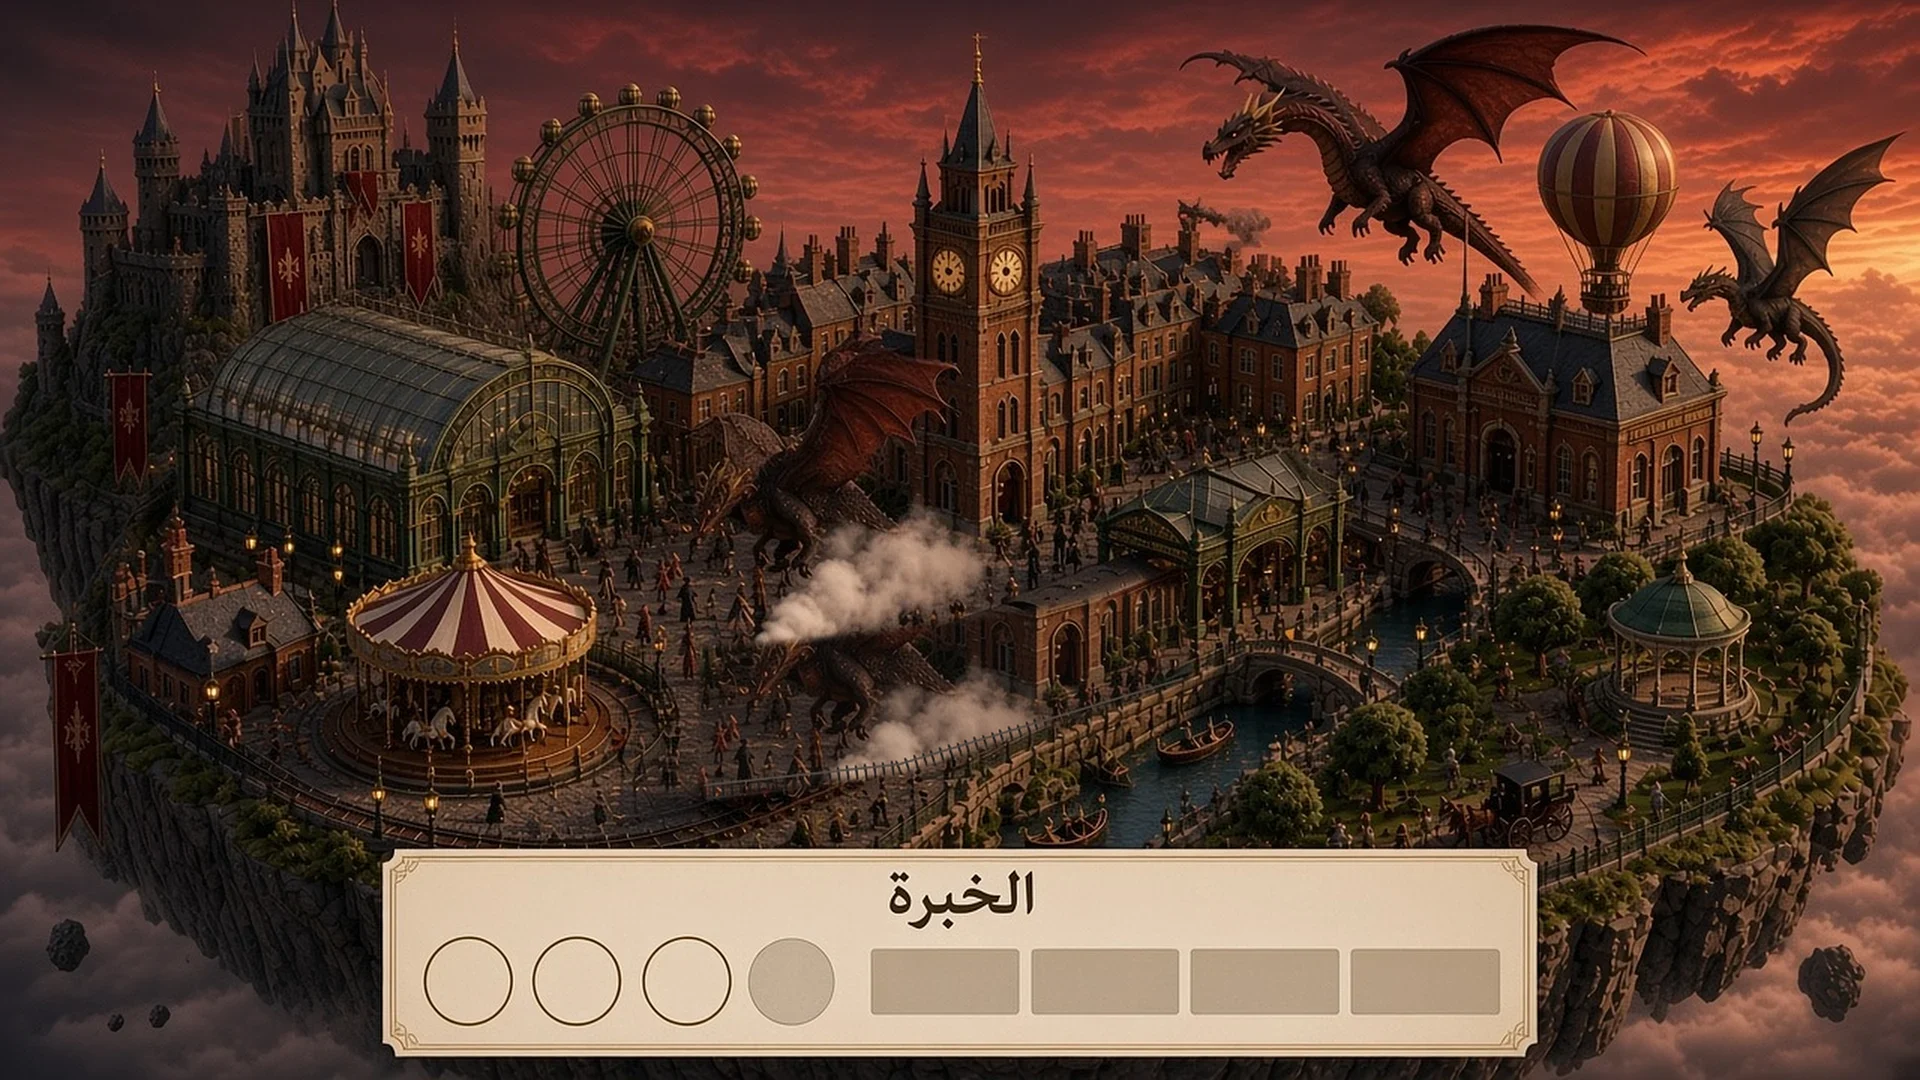
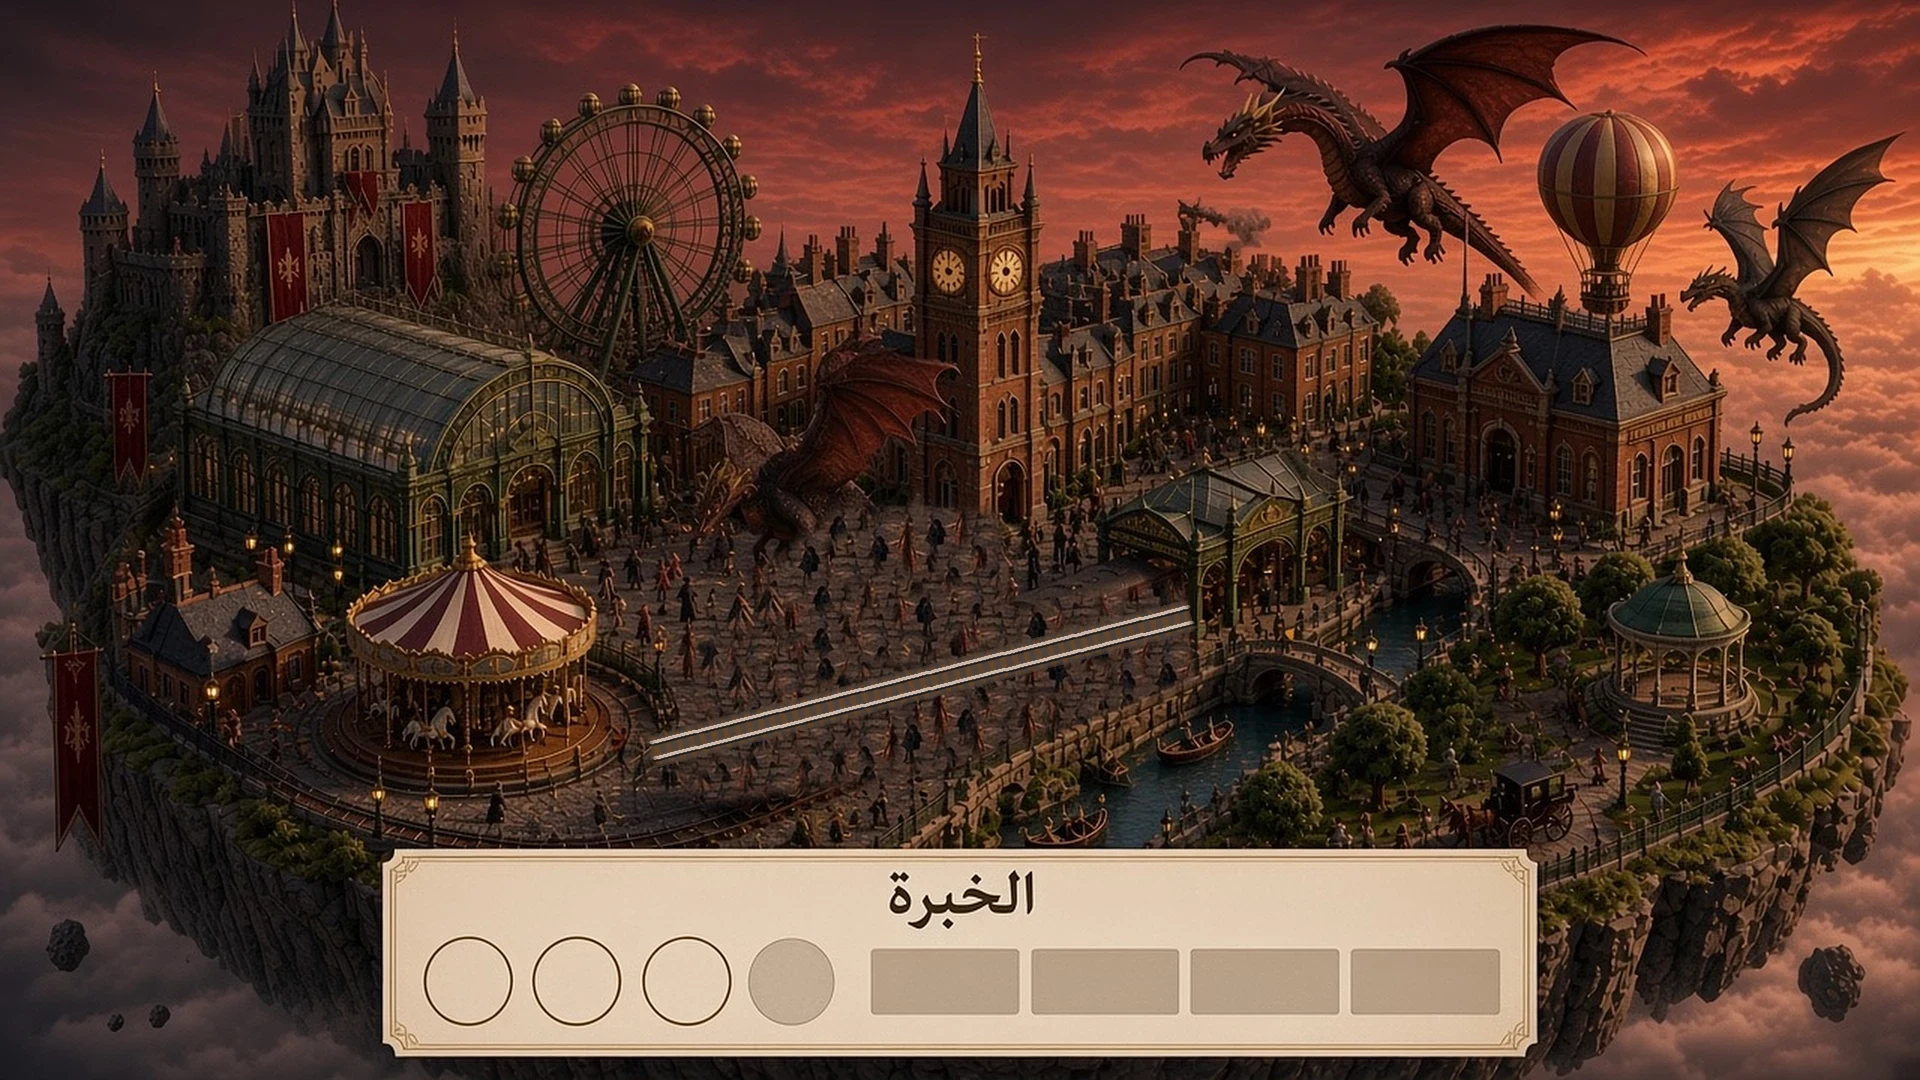
Continuous rails, train loop leaves station, remove painted smoke, oval horse ring, clean house strips

Changed region(s): [[0.3438, 0.4583, 0.625, 0.7333]]

diff --git a/app.js b/app.js
@@ -46,11 +46,11 @@ const VIEWS={
    {to:"contact",b:[935,200,1165,375],t:"مكتب البريد — تواصل"},{to:"contact",b:[1015,70,1110,215],t:"المنطاد — تواصل"}],
   extra:`<div class="wheel pl" style="${pct([318,70,506,258])};background-image:url(img/d01-main.webp);background-size:${1280/188*100}% ${720/188*100}%;background-position:${318/(1280-188)*100}% ${70/(720-188)*100}%"></div><div class="drift pl" style="${pct([764,500,833,540])};background-image:url(img/d01-main.webp);background-size:${1280/69*100}% ${720/40*100}%;background-position:${764/(1280-69)*100}% ${500/(720-40)*100}%;"></div><div class="drift pl" style="${pct([674,563,746,607])};background-image:url(img/d01-main.webp);background-size:${1280/72*100}% ${720/44*100}%;background-position:${674/(1280-72)*100}% ${563/(720-44)*100}%;animation-delay:-3s"></div><div class="roll pl" style="${pct([996,532,1086,598])};background-image:url(img/d01-main.webp);background-size:${1280/90*100}% ${720/66*100}%;background-position:${996/(1280-90)*100}% ${532/(720-66)*100}%;"></div><div class="sway pl" style="${pct([240,330,330,385])};background-image:url(img/d01-main.webp);background-size:${1280/90*100}% ${720/55*100}%;background-position:${240/(1280-90)*100}% ${330/(720-55)*100}%;"></div><div class="sway pl" style="${pct([380,300,470,360])};background-image:url(img/d01-main.webp);background-size:${1280/90*100}% ${720/60*100}%;background-position:${380/(1280-90)*100}% ${300/(720-60)*100}%;animation-delay:-.6s"></div><div class="sway pl" style="${pct([560,330,650,390])};background-image:url(img/d01-main.webp);background-size:${1280/90*100}% ${720/60*100}%;background-position:${560/(1280-90)*100}% ${330/(720-60)*100}%;animation-delay:-1.1s"></div><div class="frames pl" style="${pct([230,388,394,458])}"><img src="img/car1.webp" alt=""></div><img class="spr pl train" src="img/trainA.webp" style="${pct([462,392,790,578])}">${cat(372,592,1,2,.9)}<img class="spr bob" src="img/dragon0.webp" style="${pct([800,32,1100,215])}"><img class="spr bob" src="img/dragon1.webp" style="${pct([1110,95,1278,300])};animation-delay:-2s">
    <div class="glow" style="${pct([150,560,190,600])}"></div><div class="glow" style="${pct([700,560,730,590])};animation-delay:-.7s"></div><div class="glow" style="${pct([1040,520,1070,550])};animation-delay:-1.1s"></div>`,
-  flags:[[180,140,200,220],[270,135,289,200],[80,255,100,295]], train:{d:[-.952,.306],a:170,b:-210,T:16,ch:[492,496]}},
+  flags:[[180,140,200,220],[270,135,289,200],[80,255,100,295]], train:{d:[-.930,.367],a:0,b:210,T:16,ch:[492,496]}},
  about:{img:"d02-about",focus:.36,card:"about",extra:`<div class="glow" style="${pct([196,355,246,405])}"></div><div class="glow" style="${pct([416,350,466,400])};animation-delay:-.5s"></div><div class="glow" style="${pct([602,340,652,390])};animation-delay:-1s"></div><div class="glow" style="${pct([670,520,720,570])};animation-delay:-.3s"></div><div class="glow" style="${pct([352,575,408,630])};animation-delay:-1.3s"></div>`, flags:[[279,447,340,650],[470,433,515,600],[355,302,406,398]]},
  skills:{img:"d04-skills",focus:.36,card:"skills",extra:`<div class="board pl" style="${pct([448,256,562,293])}">Laravel</div><div class="board pl" style="${pct([596,256,702,293])};font-size:calc(var(--u)*13)">ASP.NET Core</div><div class="board pl" style="${pct([702,254,732,295])}"></div><div class="frames ring pl" style="${pct([95,360,735,540])}"><img src="img/ring4.webp" alt=""></div><div class="frames pl" style="${pct([186,98,644,239])}"><img src="img/car4.webp" alt=""></div>
    <div class="glow" style="${pct([20,445,60,485])}"></div><div class="glow" style="${pct([750,455,790,495])};animation-delay:-.6s"></div><div class="glow" style="${pct([40,545,90,595])};animation-delay:-1.2s"></div>`},
- experience:{img:"d05-experience",focus:.5,card:"experience",flags:[[178,140,201,215],[268,135,293,200],[74,245,100,300]],train:{d:[-.976,.217],a:160,b:-200,T:15,ch:[503,438]},extra:`<img class="spr pl train" src="img/trainB.webp" style="${pct([462,388,796,534])}"><div class="wheel pl" style="${pct([322,64,506,248])};background-image:url(img/d05-experience.webp);background-size:${1280/184*100}% ${720/184*100}%;background-position:${322/(1280-184)*100}% ${64/(720-184)*100}%"></div>`},
+ experience:{img:"d05-experience",focus:.5,card:"experience",flags:[[178,140,201,215],[268,135,293,200],[74,245,100,300]],train:{d:[-.969,.245],a:0,b:210,T:15,ch:[503,438]},extra:`<img class="spr pl train" src="img/trainB.webp" style="${pct([462,388,796,534])}"><div class="wheel pl" style="${pct([322,64,506,248])};background-image:url(img/d05-experience.webp);background-size:${1280/184*100}% ${720/184*100}%;background-position:${322/(1280-184)*100}% ${64/(720-184)*100}%"></div>`},
  contact:{img:"d06-contact",focus:.33,card:"contact",extra:`<div class="glow" style="${pct([280,505,340,560])}"></div><div class="glow" style="${pct([365,460,405,500])};animation-delay:-.8s"></div>`},
  projects:{img:"h00-street",focus:.5,hots:PROJECTS.map((p,i)=>({house:i,b:p.hot,t:`${p.title} — ${p.latin}`})),
   extra:`<div class="glow" style="${pct([170,445,220,495])}"></div><div class="glow" style="${pct([12,490,52,530])};animation-delay:-.4s"></div><div class="glow" style="${pct([1225,490,1265,530])};animation-delay:-.9s"></div>`, walkers:true,catx:1, signs:[[57, 415, 162, 450], [207, 415, 290, 449], [346, 422, 444, 452], [491, 415, 603, 449], [646, 415, 746, 449], [821, 415, 918, 449], [971, 415, 1077, 449], [1131, 415, 1243, 449]]},

diff --git a/style.css b/style.css
@@ -114,3 +114,4 @@ a.row:hover{background:rgba(220,190,130,.6)}
 .sway{animation:sw 1.6s steps(2) infinite}@keyframes sw{50%{transform:translateX(calc(var(--u)*.8))}}
 
 .frames.ring img{animation-duration:2.4s}
+.card h1{padding-left:calc(var(--u)*40);font-size:calc(var(--u)*44)!important;line-height:1.15}
